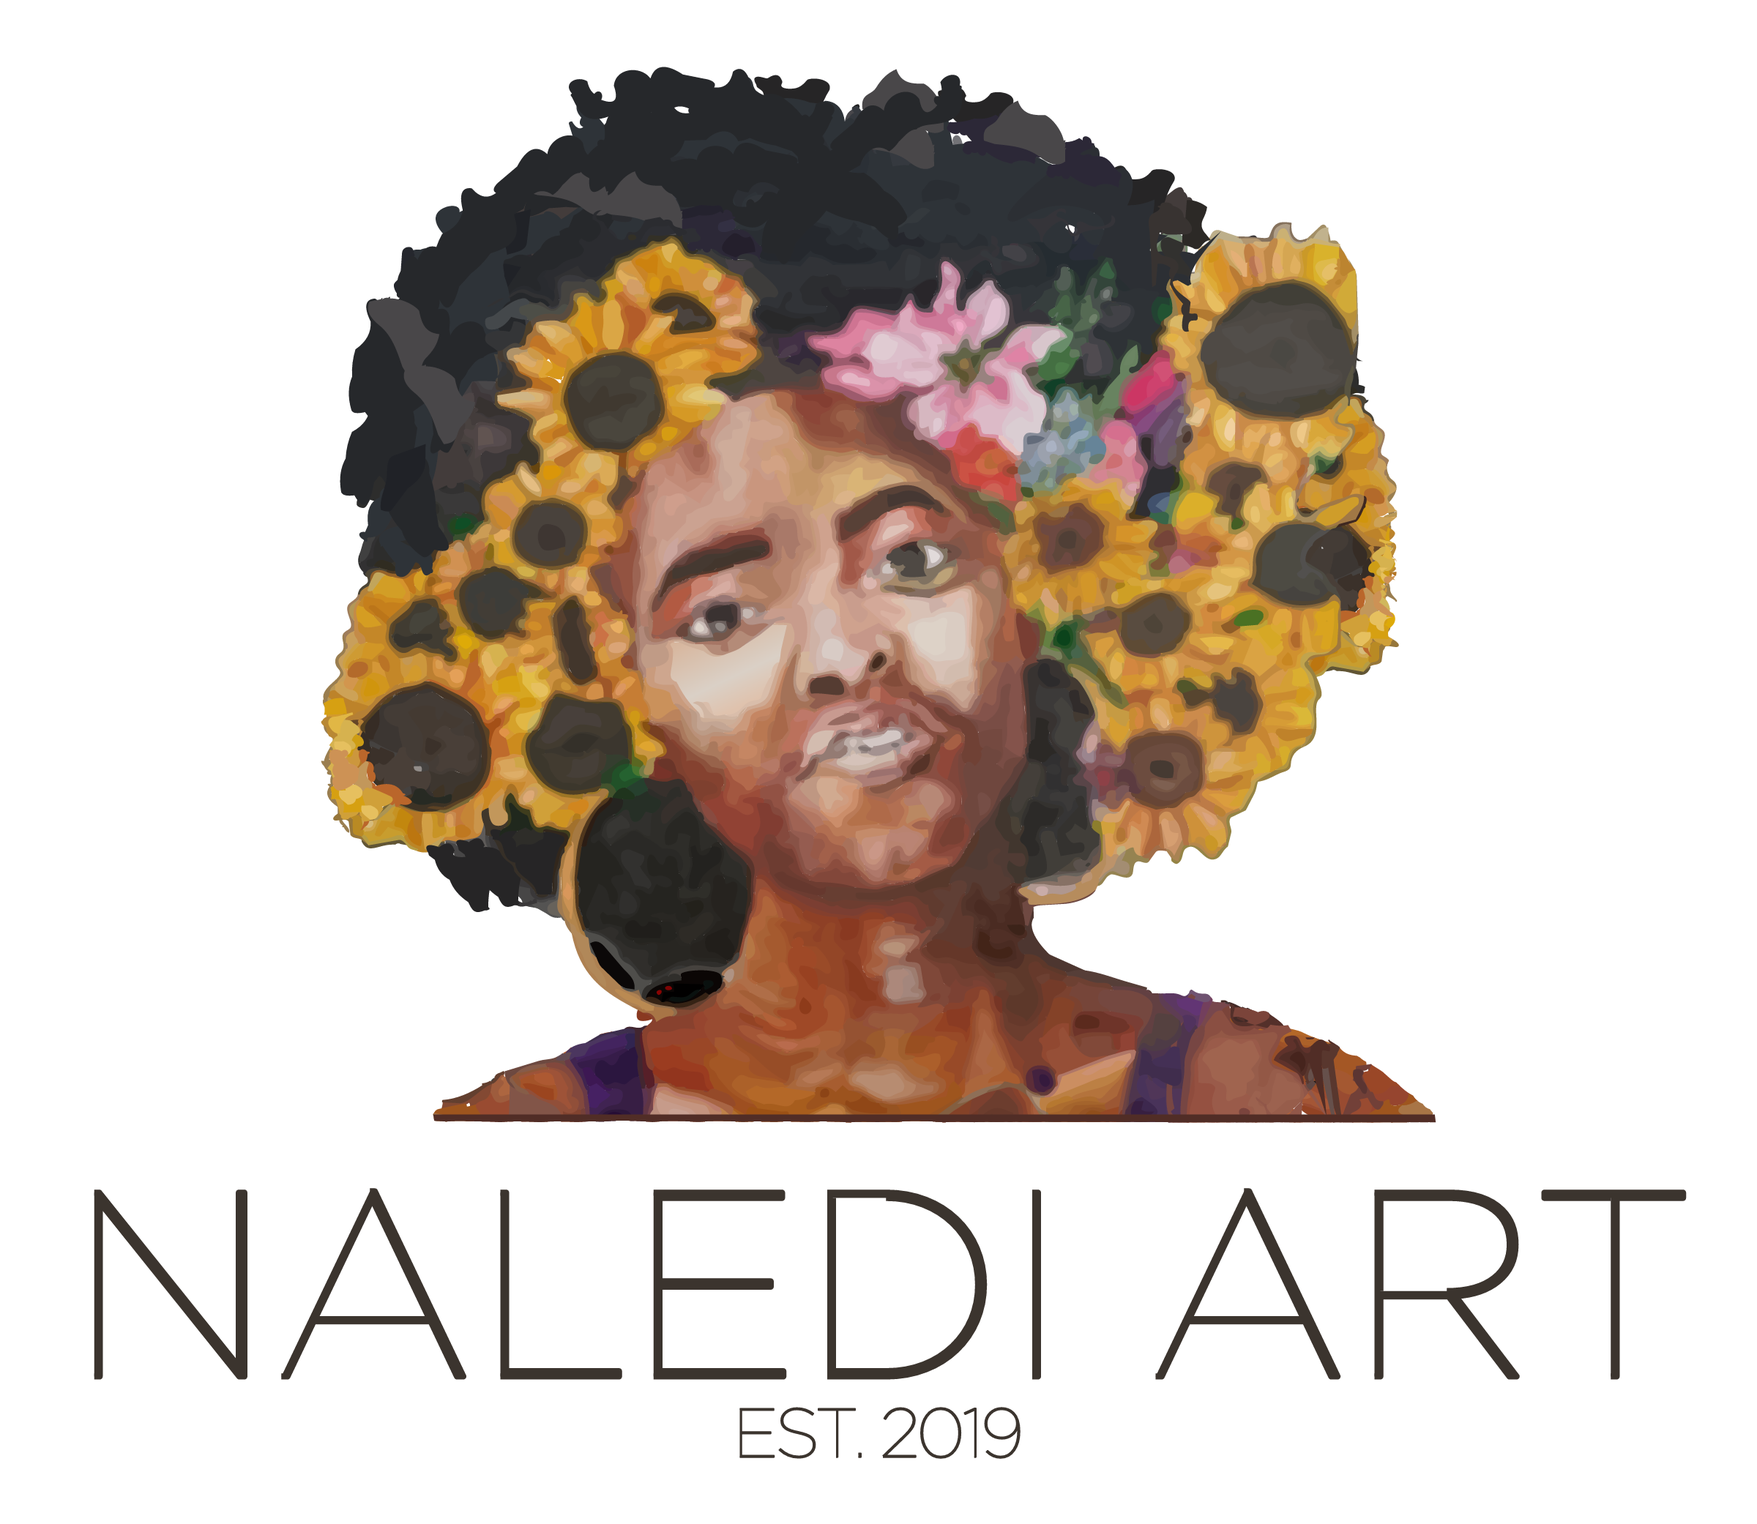
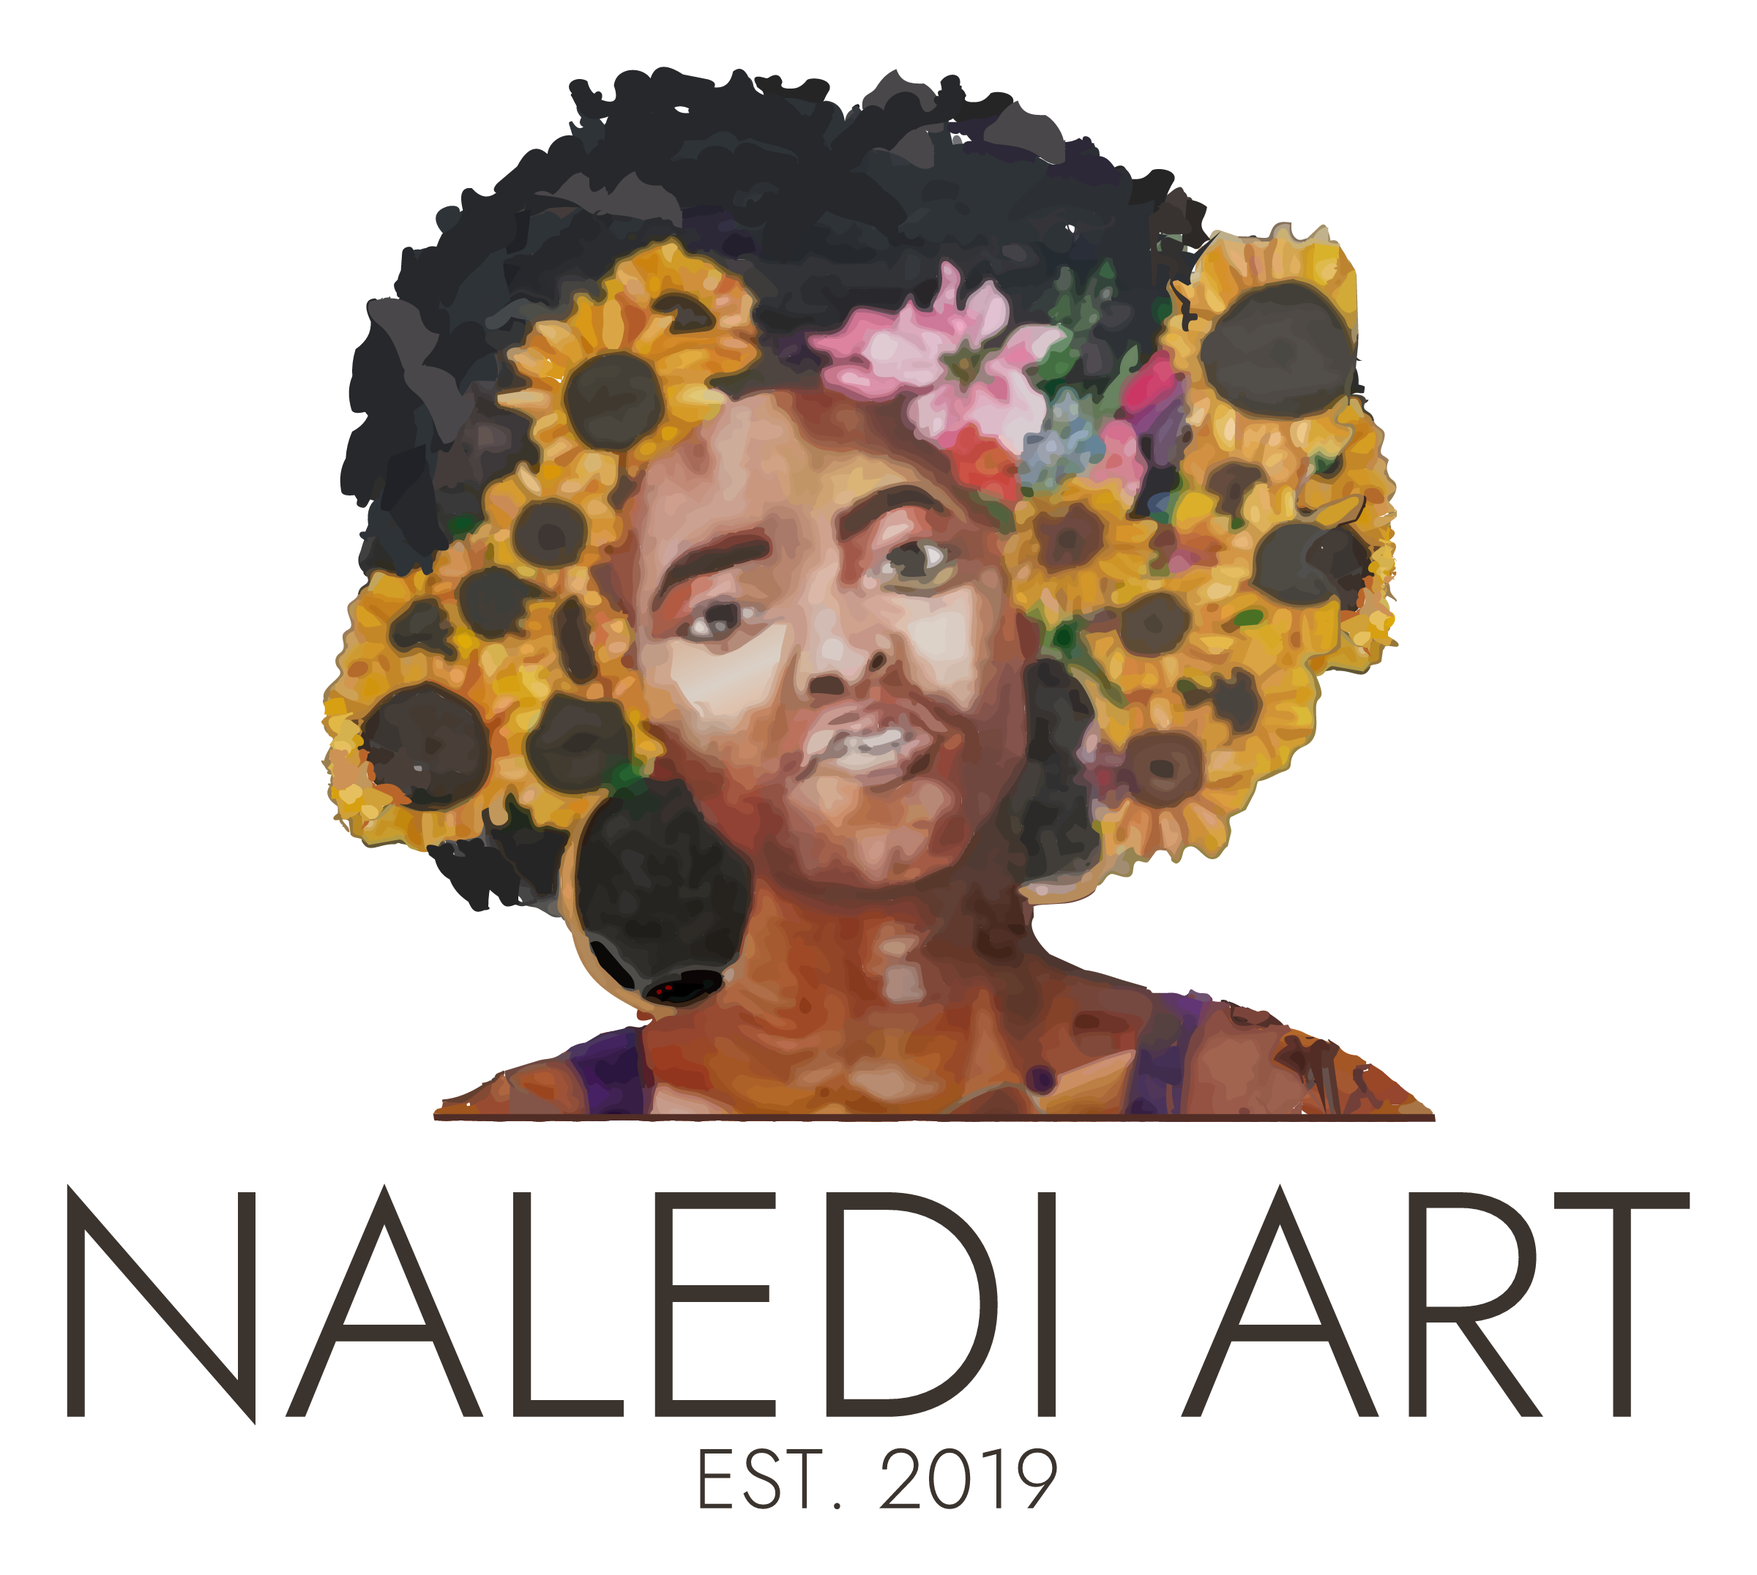
Set the classic lockup in Jost, and fix its broken letters
NALEDI ART was coming out wrong: the D had no left stem and the R's bowl
never closed onto it, so the word read as NALE-bowl-I. The cause is that
the classic lockup was the one mark still set in Gotham, whose CFF
outlines do not survive this pipeline. Jost sets the same string cleanly.

It was also the last Gotham dependency in the suite, which the guidelines
already claimed was gone, so this makes that page true as well.

Both numbers now come off the painting rather than one being derived from
the other: cap height 0.2016 of the artwork's width, line width 1.4562 of
it, with the type tracked out to land on that width exactly, the way the
primary is built. The stem lands at 7.9% of cap, which is the primary's
stem, so the two lockups finally match. A heavier cut in Jost Regular
stands in for the old alternate. The classic and files slides say so.

diff --git a/brand-suite/build/suite.js b/brand-suite/build/suite.js
@@ -9,34 +9,45 @@ const ot = require('opentype.js');
 const { pathData } = require('./pathdata');
 const L = require('./lockup');
 
-const UF = 'C:/Users/IC RUSTENBURG/AppData/Local/Microsoft/Windows/Fonts/';
 const loadFont = p => { const b = fs.readFileSync(p); return ot.parse(b.buffer.slice(b.byteOffset, b.byteOffset + b.byteLength)); };
-const F = loadFont('D:/Naledi Art Studio/fonts/Jost-Light.ttf');
-const UPEM = F.unitsPerEm;
-const CAP = Math.abs(F.charToGlyph('H').getPath(0, 0, UPEM).getBoundingBox().y1);
-const STEM = (b => (b.x2 - b.x1) / CAP)(F.charToGlyph('I').getPath(0, 0, UPEM).getBoundingBox());
+
+// Everything is set from a Jost file. The classic lockup was the last mark
+// still set in Gotham, and Gotham's CFF outlines do not survive this
+// pipeline: the D came out with no left stem and the R with an open bowl.
+// `face` makes the same layout available for any Jost weight.
+function face(ttf) {
+  const F = loadFont(ttf);
+  const UPEM = F.unitsPerEm;
+  const CAP = Math.abs(F.charToGlyph('H').getPath(0, 0, UPEM).getBoundingBox().y1);
+  const STEM = (b => (b.x2 - b.x1) / CAP)(F.charToGlyph('I').getPath(0, 0, UPEM).getBoundingBox());
+
+  function run(text, cap, track) {
+    const size = cap * UPEM / CAP, scale = size / UPEM;
+    const glyphs = F.stringToGlyphs(text);
+    let x = 0; const placed = [];
+    for (const g of glyphs) { placed.push({ g, x }); x += g.advanceWidth * scale + track * size; }
+    const bb = g => g.getPath(0, 0, size).getBoundingBox();
+    const inkL = placed[0].x + bb(glyphs[0]).x1;
+    const inkR = placed[placed.length - 1].x + bb(glyphs[glyphs.length - 1]).x2;
+    return { ink: inkR - inkL, inkL, size,
+      path: (originX, baselineY) => placed.map(p => pathData(p.g.getPath(originX - inkL + p.x, baselineY, size))).join('') };
+  }
+  const trackFor = (text, cap, targetInk) => {
+    let lo = -0.3, hi = 1.2, t = 0;
+    for (let i = 0; i < 50; i++) { t = (lo + hi) / 2; (run(text, cap, t).ink < targetInk) ? lo = t : hi = t; }
+    return t;
+  };
+  return { F, UPEM, CAP, STEM, run, trackFor };
+}
+
+const LIGHT = face('D:/Naledi Art Studio/fonts/Jost-Light.ttf');
+const { UPEM, CAP, STEM, run, trackFor } = LIGHT;
+const F = LIGHT.F;
 
 const INK = '#241C2C';
 const GOLD = '#D29E38';
 const ART = L.artwork();
 
-/* ------------------------------------------------------------- straight --- */
-function run(text, cap, track) {
-  const size = cap * UPEM / CAP, scale = size / UPEM;
-  const glyphs = F.stringToGlyphs(text);
-  let x = 0; const placed = [];
-  for (const g of glyphs) { placed.push({ g, x }); x += g.advanceWidth * scale + track * size; }
-  const bb = g => g.getPath(0, 0, size).getBoundingBox();
-  const inkL = placed[0].x + bb(glyphs[0]).x1;
-  const inkR = placed[placed.length - 1].x + bb(glyphs[glyphs.length - 1]).x2;
-  return { ink: inkR - inkL, inkL, size,
-    path: (originX, baselineY) => placed.map(p => pathData(p.g.getPath(originX - inkL + p.x, baselineY, size))).join('') };
-}
-const trackFor = (text, cap, targetInk) => {
-  let lo = -0.3, hi = 1.2, t = 0;
-  for (let i = 0; i < 50; i++) { t = (lo + hi) / 2; (run(text, cap, t).ink < targetInk) ? lo = t : hi = t; }
-  return t;
-};
 const weightStroke = (cap, stem) => Math.max(0, (stem - STEM) * cap);
 
 /* ------------------------------------------------------------- on a arc --- */
@@ -222,4 +233,4 @@ function monogram({ cap = 200, ink = INK, mark = 'roundel', id = 'mg' } = {}) {
   return svgWrap(-pad, -cap * 0.16, rightW + pad * 2, cap * 1.42, body);
 }
 
-module.exports = { primary, wordmark, badge, submark, horizontal, monogram, run, trackFor, arcText, roundel, INK, GOLD };
+module.exports = { primary, wordmark, badge, submark, horizontal, monogram, run, trackFor, arcText, roundel, face, INK, GOLD };

diff --git a/brand-suite/build/build-suite.js b/brand-suite/build/build-suite.js
@@ -27,21 +27,48 @@ write('01-primary-reversed', S.primary({ cap: 120, ink: CREAM, id: 'p2' }));
 write('01-primary-gold-rule', S.primary({ cap: 120, spine: GOLD, id: 'p3' }));
 write('01-primary-flush', S.primary({ cap: 120, id: 'p4', flush: true }), [2400, 1200]);
 
-/* ---- 2. classic: the painted original's layout ------------------------- */
-const AW = L.artwork().vb[2];
-function classic(stem) {
-  const FONT = 'gothamThin', f = L.font(FONT);
-  const natural = (b => (b.x2 - b.x1) / L.capOf(f))(f.charToGlyph('I').getPath(0, 0, f.unitsPerEm).getBoundingBox());
-  const cap1 = (1.4562 * AW) / (L.line(FONT, 'NALEDI ART', 100, 0).width / 100);
-  const capE = cap1 * (0.053 / 0.2016);
-  let lo = -0.2, hi = 1.5, tE = 0;
-  for (let i = 0; i < 44; i++) { tE = (lo + hi) / 2; (L.line(FONT, 'EST. 2019', capE, tE).width < 0.320 * AW * (cap1 / (0.2016 * AW))) ? lo = tE : hi = tE; }
-  return L.lockup({ font: FONT, colour: '#3B342E', gaps: [0.063, 0.029],
-    stroke: [Math.max(0, (stem - natural) * cap1), Math.max(0, (stem - natural) * capE)],
-    lines: [{ text: 'NALEDI ART', cap: cap1 / AW, track: 0 }, { text: 'EST. 2019', cap: capE / AW, track: tE }] });
+/* ---- 2. classic: the painted original's layout -------------------------
+   Set in Jost, like every other mark. It was the last thing still set in
+   Gotham, and Gotham's CFF outlines do not survive this pipeline: the D
+   came out with no left stem and the R with an open bowl.
+
+   Both numbers come off the painting rather than one being derived from
+   the other: the cap height is 0.2016 of the artwork's width and the line
+   measures 1.4562 of it, so the type is tracked out to land on that width
+   exactly, the same way the primary is built. */
+const A = L.artwork();
+const AW = A.vb[2], AH = A.vb[3];
+const M = { cap: 0.2016, line: 1.4562, capEst: 0.053, lineEst: 0.320,
+            pad: 0.06, gap1: 0.063, gap2: 0.029 };
+
+function classic(weight) {
+  const f = S.face('D:/Naledi Art Studio/fonts/Jost-' + weight + '.ttf');
+  const cap1 = M.cap * AW, capE = M.capEst * AW;
+  const l1 = f.run('NALEDI ART', cap1, f.trackFor('NALEDI ART', cap1, M.line * AW));
+  const l2 = f.run('EST. 2019', capE, f.trackFor('EST. 2019', capE, M.lineEst * AW));
+
+  const pad = M.pad * AW;
+  const W = Math.max(AW, l1.ink, l2.ink) + pad * 2, cx = W / 2;
+  const y1 = pad + AH + M.gap1 * AW + cap1;
+  const y2 = y1 + M.gap2 * AW + capE;
+  const H = y2 + pad;
+  const ink = '#3B342E';
+
+  return '<svg xmlns="http://www.w3.org/2000/svg" viewBox="0 0 ' + W.toFixed(1) + ' ' + H.toFixed(1) +
+    '" width="' + W.toFixed(0) + '" height="' + H.toFixed(0) + '">' +
+    '<g transform="translate(' + ((W - AW) / 2).toFixed(1) + ',' + pad.toFixed(1) + ')">' + A.inner + '</g>' +
+    '<path fill="' + ink + '" d="' + l1.path(cx - l1.ink / 2, y1) + '"/>' +
+    '<path fill="' + ink + '" d="' + l2.path(cx - l2.ink / 2, y2) + '"/>' +
+    '</svg>';
 }
-write('02-classic', classic(0.065), [2400, 1200]);
-write('02-classic-heavier', classic(0.077));
+write('02-classic', classic('Light'), [2400, 1200]);
+write('02-classic-heavier', classic('Regular'));
+
+// Say what was actually built, so the guidelines can quote it.
+for (const w of ['Light', 'Regular']) {
+  const f = S.face('D:/Naledi Art Studio/fonts/Jost-' + w + '.ttf');
+  console.log('  classic in Jost ' + w.padEnd(8) + ' stem ' + (f.STEM * 100).toFixed(1) + '% of cap');
+}
 
 /* ---- 3-6. the rest of the suite ---------------------------------------- */
 // The badges are held back. Naledi asked for them to be left alone in the

diff --git a/docs/review/index.html b/docs/review/index.html
@@ -680,10 +680,10 @@
           </div>
           <div style="display:flex; align-items:baseline; justify-content:space-between; gap:48px; padding:19px 0; border-bottom:1px solid #E6DCD2">
           <span style="font-size:24px; color:#6A5F74">Built at</span>
-          <span style="font-size:24px; color:#241C2C; font-variant-numeric:tabular-nums; text-align:right">6.5% of cap</span>
+          <span style="font-size:24px; color:#241C2C; font-variant-numeric:tabular-nums; text-align:right">7.9% of cap</span>
           </div>
           </div>
-          <p style="font-size:23px; line-height:1.55; color:#6A5F74; max-width:50ch">Weight is the one thing I changed on purpose. At 4.0% the letters looked starved next to the artwork. A second version at 7.7% exists if you would rather both lockups feel identical in weight.</p>
+          <p style="font-size:23px; line-height:1.55; color:#6A5F74; max-width:50ch">Weight is the one thing I changed on purpose. At 4.0% the letters looked starved next to the artwork. It is set in Jost Light, the same face and the same stem as the primary, so the two lockups sit together without either looking thin. A heavier cut in Jost Regular exists if you would rather the words carried more.</p>
           </div>
           <figure style="margin:0; display:flex; flex-direction:column; gap:13px; min-height:0; flex:1">
           <img loading="lazy" src="img/classic.webp" alt="The classic lockup: the portrait artwork above the words NALEDI ART and EST. 2019" style="width:100%; height:470px; object-fit:contain; border-radius:18px; display:block">
@@ -1148,7 +1148,7 @@
           </div>
           <div style="display:flex; flex-direction:column; gap:10px; border-top:1px solid #D29E38; padding-top:20px">
           <p style="font-size:16px; font-weight:500; letter-spacing:.2em; text-transform:uppercase; color:#8A6010">Two things still open</p>
-          <p style="font-size:21px; line-height:1.55; color:#6A5F74; max-width:46ch">Which weight for the classic lockup, 6.5% or 7.7%. And the monogram reads as a word: N beside O can be read as NO. Say the word and I will rework it.</p>
+          <p style="font-size:21px; line-height:1.55; color:#6A5F74; max-width:46ch">The classic lockup in Jost Light, as built, or the heavier cut in Jost Regular. And the monogram reads as a word: N beside O can be read as NO. Say the word and I will rework it.</p>
           </div>
           </div>
           </div>

diff --git a/site/review/index.html b/site/review/index.html
@@ -680,10 +680,10 @@
           </div>
           <div style="display:flex; align-items:baseline; justify-content:space-between; gap:48px; padding:19px 0; border-bottom:1px solid #E6DCD2">
           <span style="font-size:24px; color:#6A5F74">Built at</span>
-          <span style="font-size:24px; color:#241C2C; font-variant-numeric:tabular-nums; text-align:right">6.5% of cap</span>
+          <span style="font-size:24px; color:#241C2C; font-variant-numeric:tabular-nums; text-align:right">7.9% of cap</span>
           </div>
           </div>
-          <p style="font-size:23px; line-height:1.55; color:#6A5F74; max-width:50ch">Weight is the one thing I changed on purpose. At 4.0% the letters looked starved next to the artwork. A second version at 7.7% exists if you would rather both lockups feel identical in weight.</p>
+          <p style="font-size:23px; line-height:1.55; color:#6A5F74; max-width:50ch">Weight is the one thing I changed on purpose. At 4.0% the letters looked starved next to the artwork. It is set in Jost Light, the same face and the same stem as the primary, so the two lockups sit together without either looking thin. A heavier cut in Jost Regular exists if you would rather the words carried more.</p>
           </div>
           <figure style="margin:0; display:flex; flex-direction:column; gap:13px; min-height:0; flex:1">
           <img loading="lazy" src="img/classic.webp" alt="The classic lockup: the portrait artwork above the words NALEDI ART and EST. 2019" style="width:100%; height:470px; object-fit:contain; border-radius:18px; display:block">
@@ -1148,7 +1148,7 @@
           </div>
           <div style="display:flex; flex-direction:column; gap:10px; border-top:1px solid #D29E38; padding-top:20px">
           <p style="font-size:16px; font-weight:500; letter-spacing:.2em; text-transform:uppercase; color:#8A6010">Two things still open</p>
-          <p style="font-size:21px; line-height:1.55; color:#6A5F74; max-width:46ch">Which weight for the classic lockup, 6.5% or 7.7%. And the monogram reads as a word: N beside O can be read as NO. Say the word and I will rework it.</p>
+          <p style="font-size:21px; line-height:1.55; color:#6A5F74; max-width:46ch">The classic lockup in Jost Light, as built, or the heavier cut in Jost Regular. And the monogram reads as a word: N beside O can be read as NO. Say the word and I will rework it.</p>
           </div>
           </div>
           </div>

diff --git a/presentation/deck/build-deck.js b/presentation/deck/build-deck.js
@@ -369,9 +369,9 @@ SLIDES.classic = slide('classic',
       ['Cap height, share of artwork width', '0.2016'],
       ['Line width, share of artwork width', '1.4562'],
       ['Painted stroke weight', '4.0% of cap'],
-      ['Built at', '6.5% of cap']
+      ['Built at', '7.9% of cap']
     ], { size: 24 }) +
-    p('Weight is the one thing I changed on purpose. At 4.0% the letters looked starved next to the artwork. A second version at 7.7% exists if you would rather both lockups feel identical in weight.', { max: 50 }) +
+    p('Weight is the one thing I changed on purpose. At 4.0% the letters looked starved next to the artwork. It is set in Jost Light, the same face and the same stem as the primary, so the two lockups sit together without either looking thin. A heavier cut in Jost Regular exists if you would rather the words carried more.', { max: 50 }) +
     '</div>\n' +
     fig(B.classic, 'The classic lockup: the portrait artwork above the words NALEDI ART and EST. 2019', 'Artwork above, the words below, as you painted it', { h: 470, fit: 'contain' }) +
     '</div>\n', { top: 46 }) +
@@ -600,7 +600,7 @@ SLIDES.files = slide('files',
     h3('Convert to CMYK for litho') + p('The files are sRGB. Ask your printer to convert and send a proof. The golds are the ones to check.', { max: 46, size: 21 }) + '</div>\n' +
     '<div style="display:flex; flex-direction:column; gap:10px; border-top:1px solid ' + T.lit + '; padding-top:20px">\n' +
     label('Two things still open') +
-    p('Which weight for the classic lockup, 6.5% or 7.7%. And the monogram reads as a word: N beside O can be read as NO. Say the word and I will rework it.', { max: 46, size: 21 }) + '</div>\n' +
+    p('The classic lockup in Jost Light, as built, or the heavier cut in Jost Regular. And the monogram reads as a word: N beside O can be read as NO. Say the word and I will rework it.', { max: 46, size: 21 }) + '</div>\n' +
     '</div>\n</div>\n', { top: 44 }) +
   foot(FOOT_GL, 28) +
   notes('End on the two open decisions, so she leaves with something to answer rather than only something to admire.'));

diff --git a/presentation/deck/project/slides/classic.html b/presentation/deck/project/slides/classic.html
@@ -24,10 +24,10 @@
 </div>
 <div style="display:flex; align-items:baseline; justify-content:space-between; gap:48px; padding:19px 0; border-bottom:1px solid #E6DCD2">
 <span style="font-size:24px; color:#6A5F74">Built at</span>
-<span style="font-size:24px; color:#241C2C; font-variant-numeric:tabular-nums; text-align:right">6.5% of cap</span>
+<span style="font-size:24px; color:#241C2C; font-variant-numeric:tabular-nums; text-align:right">7.9% of cap</span>
 </div>
 </div>
-<p style="font-size:23px; line-height:1.55; color:#6A5F74; max-width:50ch">Weight is the one thing I changed on purpose. At 4.0% the letters looked starved next to the artwork. A second version at 7.7% exists if you would rather both lockups feel identical in weight.</p>
+<p style="font-size:23px; line-height:1.55; color:#6A5F74; max-width:50ch">Weight is the one thing I changed on purpose. At 4.0% the letters looked starved next to the artwork. It is set in Jost Light, the same face and the same stem as the primary, so the two lockups sit together without either looking thin. A heavier cut in Jost Regular exists if you would rather the words carried more.</p>
 </div>
 <figure style="margin:0; display:flex; flex-direction:column; gap:13px; min-height:0; flex:1">
 <img src="/_blob/50908022be43935b0af0e10c873577f9" alt="The classic lockup: the portrait artwork above the words NALEDI ART and EST. 2019" style="width:100%; height:470px; object-fit:contain; border-radius:18px; display:block">

diff --git a/presentation/deck/project/slides/files.html b/presentation/deck/project/slides/files.html
@@ -29,7 +29,7 @@
 </div>
 <div style="display:flex; flex-direction:column; gap:10px; border-top:1px solid #D29E38; padding-top:20px">
 <p style="font-size:16px; font-weight:500; letter-spacing:.2em; text-transform:uppercase; color:#8A6010">Two things still open</p>
-<p style="font-size:21px; line-height:1.55; color:#6A5F74; max-width:46ch">Which weight for the classic lockup, 6.5% or 7.7%. And the monogram reads as a word: N beside O can be read as NO. Say the word and I will rework it.</p>
+<p style="font-size:21px; line-height:1.55; color:#6A5F74; max-width:46ch">The classic lockup in Jost Light, as built, or the heavier cut in Jost Regular. And the monogram reads as a word: N beside O can be read as NO. Say the word and I will rework it.</p>
 </div>
 </div>
 </div>
